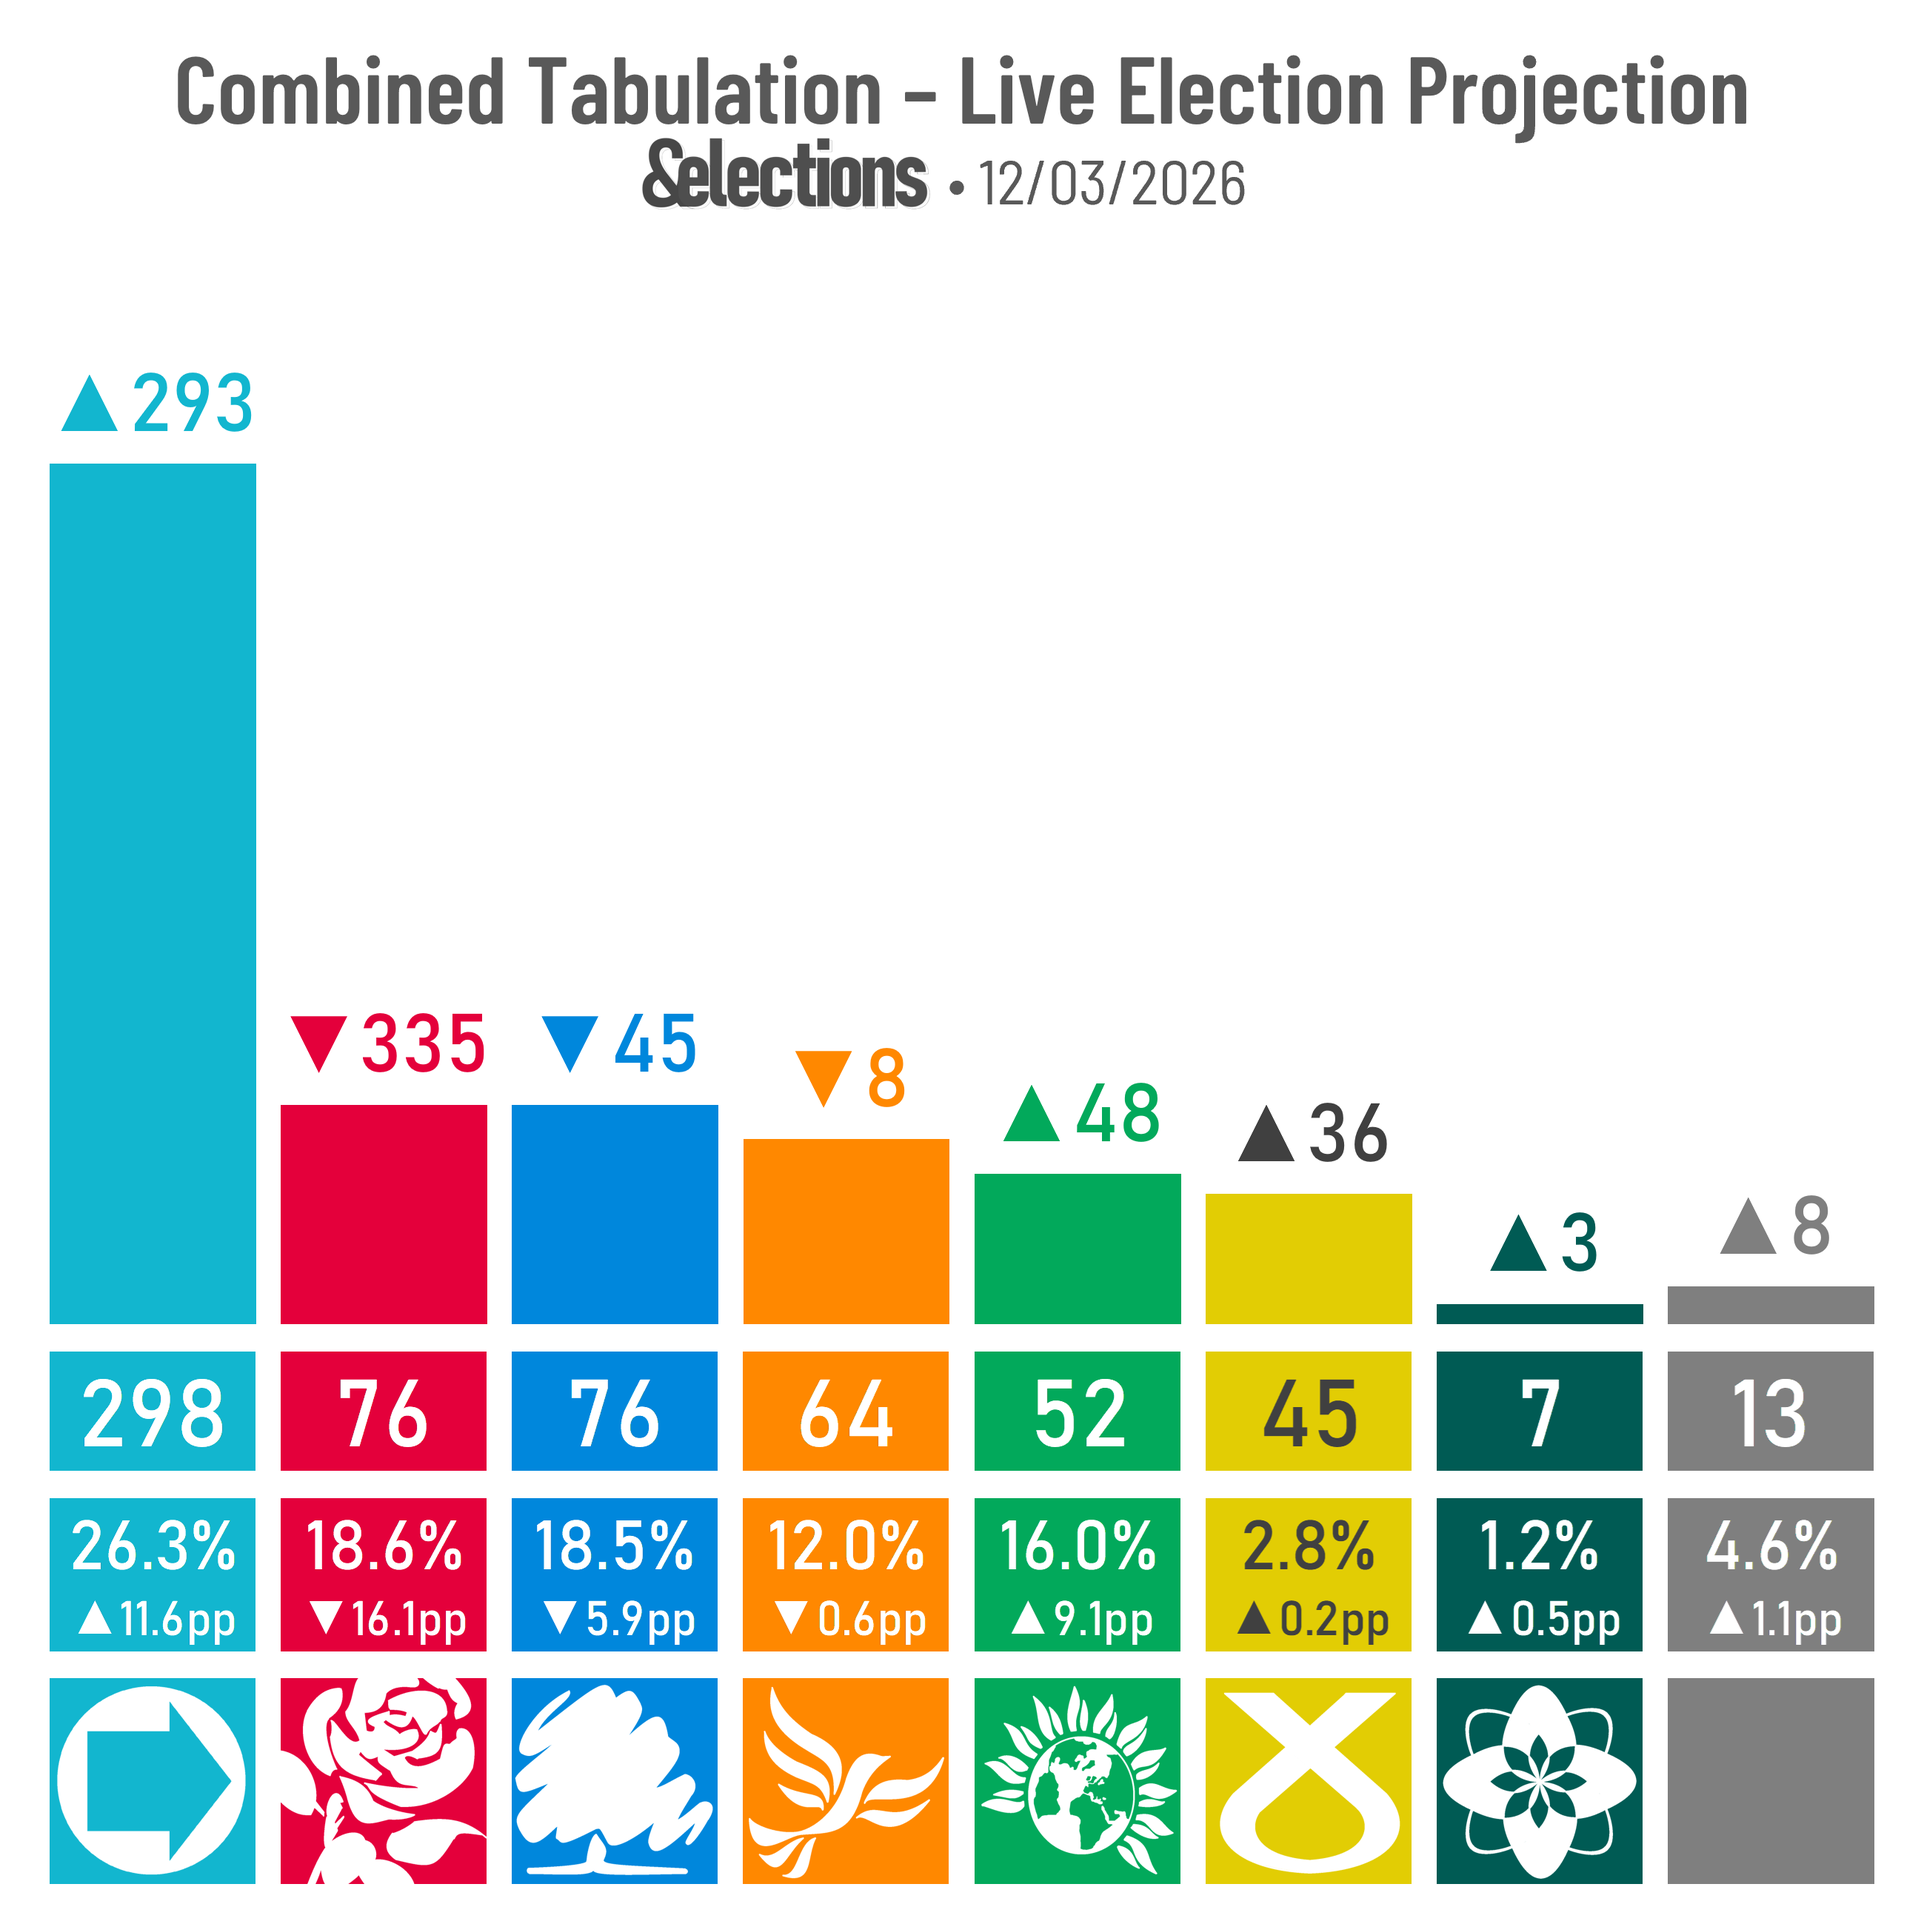
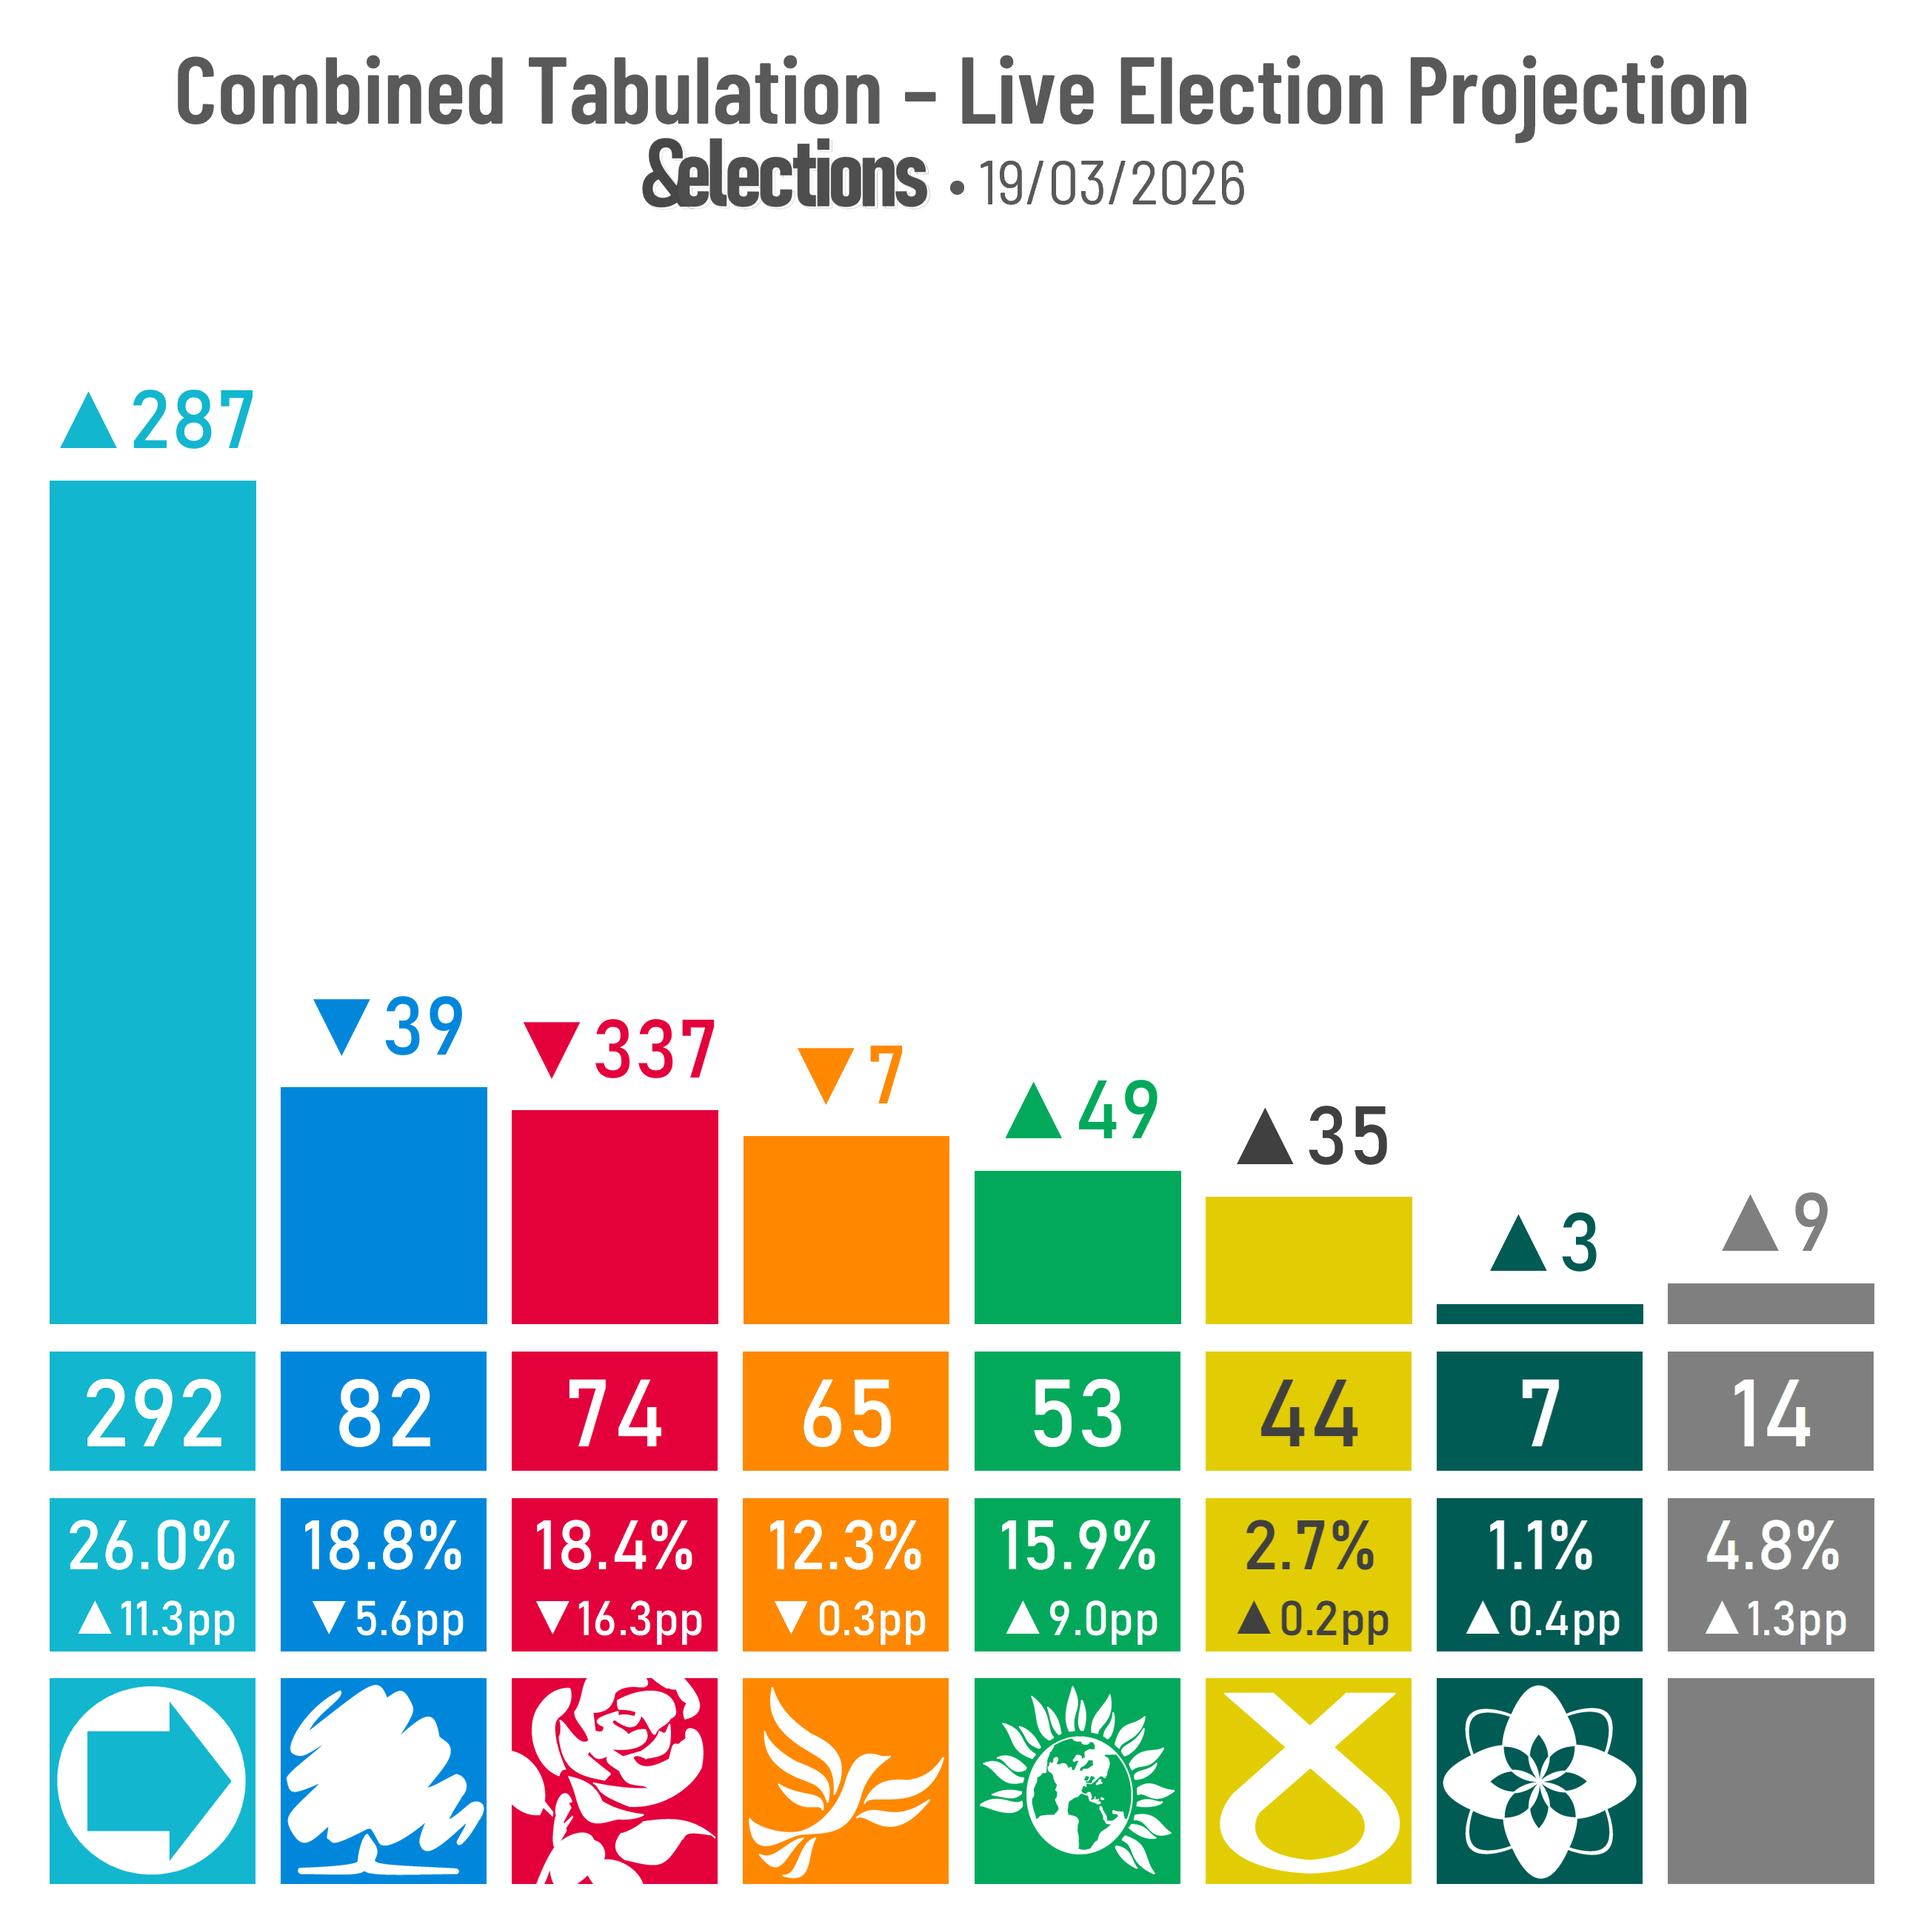
19/03/26 UK Projection
- Added images
- Added blog post

diff --git a/index.html b/index.html
@@ -267,6 +267,10 @@
                         </button>
                     </div>
                     <div class="blogtitles-container">
+                        <a href="https://andelections.substack.com/p/190326-uk-projection-labour-stabilises" title="Open article in new tab" target="_blank" rel="noopener noreferrer">
+                            <h2>19/03/26 UK Projection: Labour Stabilises as Reform's Dominance Wanes</h2>
+                            <p>19 Mar 2026 • Weeks on from a bruising by-election defeat, Labour's position has restabilised, and Reform are losing ground as the local elections approach.</p>
+                        </a>
                         <a href="https://andelections.substack.com/p/060326-uk-projection-the-death-of" title="Open article in new tab" target="_blank" rel="noopener noreferrer">
                             <h2>06/03/26 UK Projection: The Death of McSweeneyism</h2>
                             <p>06 Mar 2026 • Labour could suffer an existential threat as the Greens pass their first electoral test under Polanski's leadership with flying colours.</p>
